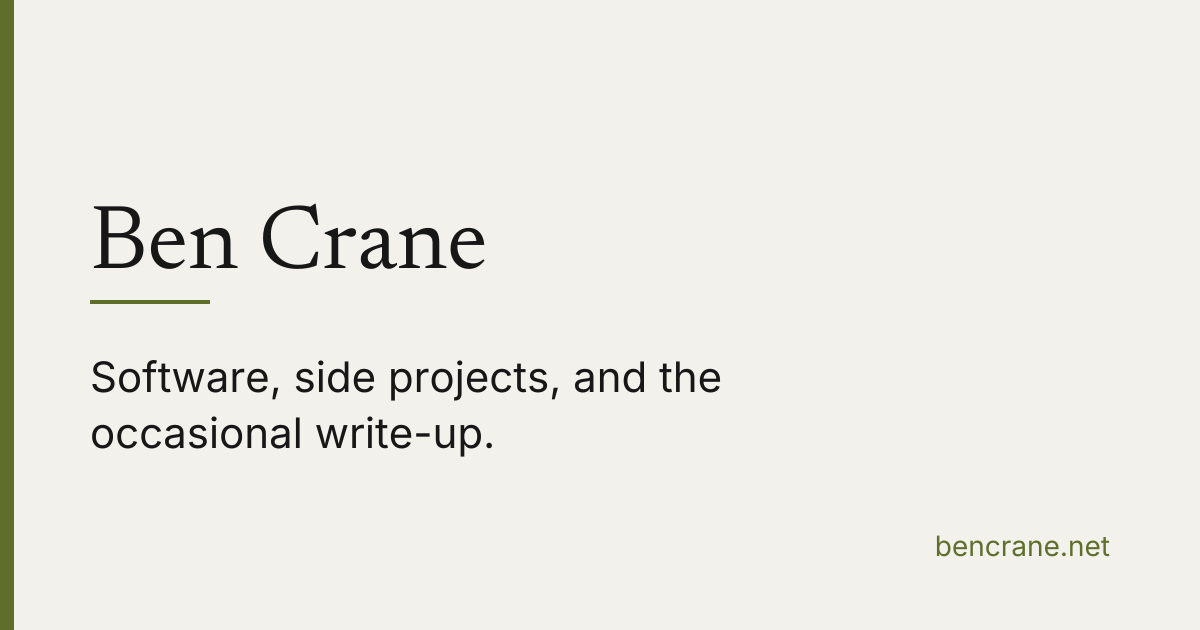
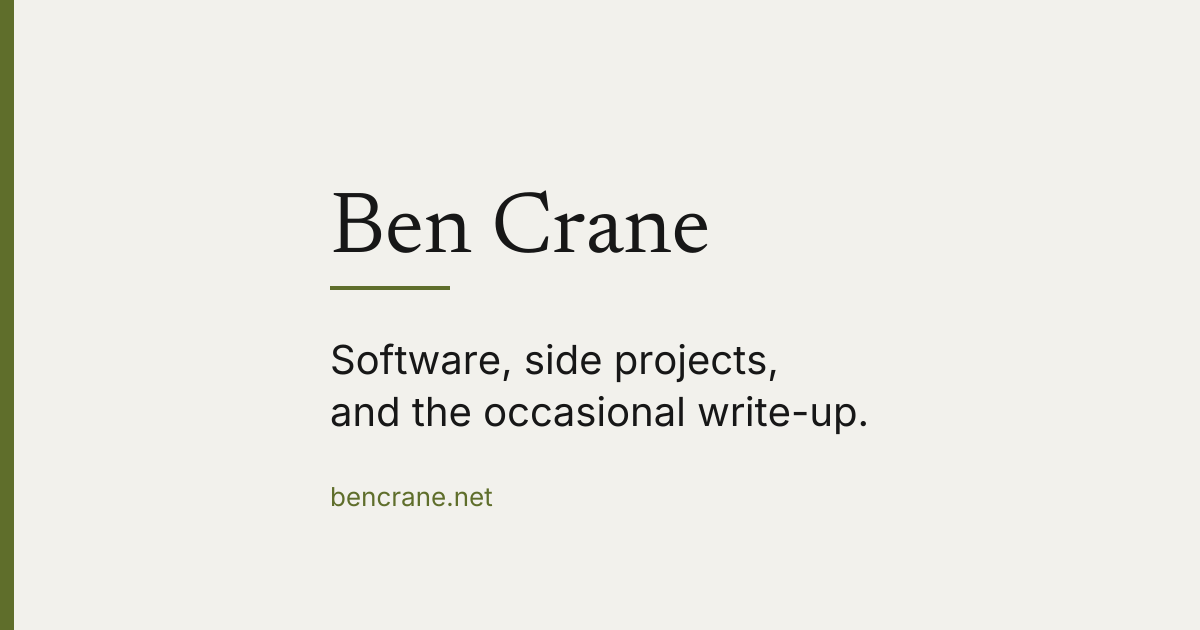
Rework the og:image for centre-crop safety and add dimension tags
Design review feedback on the first version, addressed in order of impact.

Centre-crop safety was the structural problem. Plenty of surfaces ignore
1.91:1 — iMessage, some Slack and Discord renders, various in-app
browsers — and crop toward square. A 630x630 centre crop removes 285px
from each side, which took out the URL and the olive bleed bar together.
The content column now starts at x=330 and the widest line ends at 869,
so every essential element sits inside the 285..915 safe band. The
generator asserts this rather than trusting the eye, and a simulated
crop was checked. The left bleed bar is the only expendable element.

- bencrane.net moves from the far right into the left column, beneath
  the tagline, where it survives the crop.
- The tagline now breaks after the comma rather than after "and the".
  A line should not end on an article, and the two lines balance better:
  "Software, side projects," / "and the occasional write-up."
- The empty right side is resolved by committing to the column rather
  than decorating around it: the text block now sits centred on the
  canvas, so the whitespace on either side reads as deliberate.
- Flattened RGBA to RGB. Nothing in the design uses transparency, and
  some scrapers have historically choked on alpha in OG images.

Also adds og:image:width and og:image:height, which were missing. Several
scrapers use them to reserve layout before fetching the asset, and their
[…]

diff --git a/src/data/site-config.ts b/src/data/site-config.ts
@@ -2,6 +2,8 @@ interface Image {
     src: string;
     alt?: string;
     caption?: string;
+    width?: number;
+    height?: number;
 }
 
 interface Link {
@@ -37,7 +39,9 @@ const siteConfig: SiteConfig = {
     website: 'https://bencrane.net',
     image: {
         src: '/og-image.png',
-        alt: 'Ben Crane — software, side projects, and the occasional write-up.'
+        alt: 'Ben Crane — software, side projects, and the occasional write-up.',
+        width: 1200,
+        height: 630
     },
     hero: {
         title: 'Software, side projects, and the occasional write-up.',
